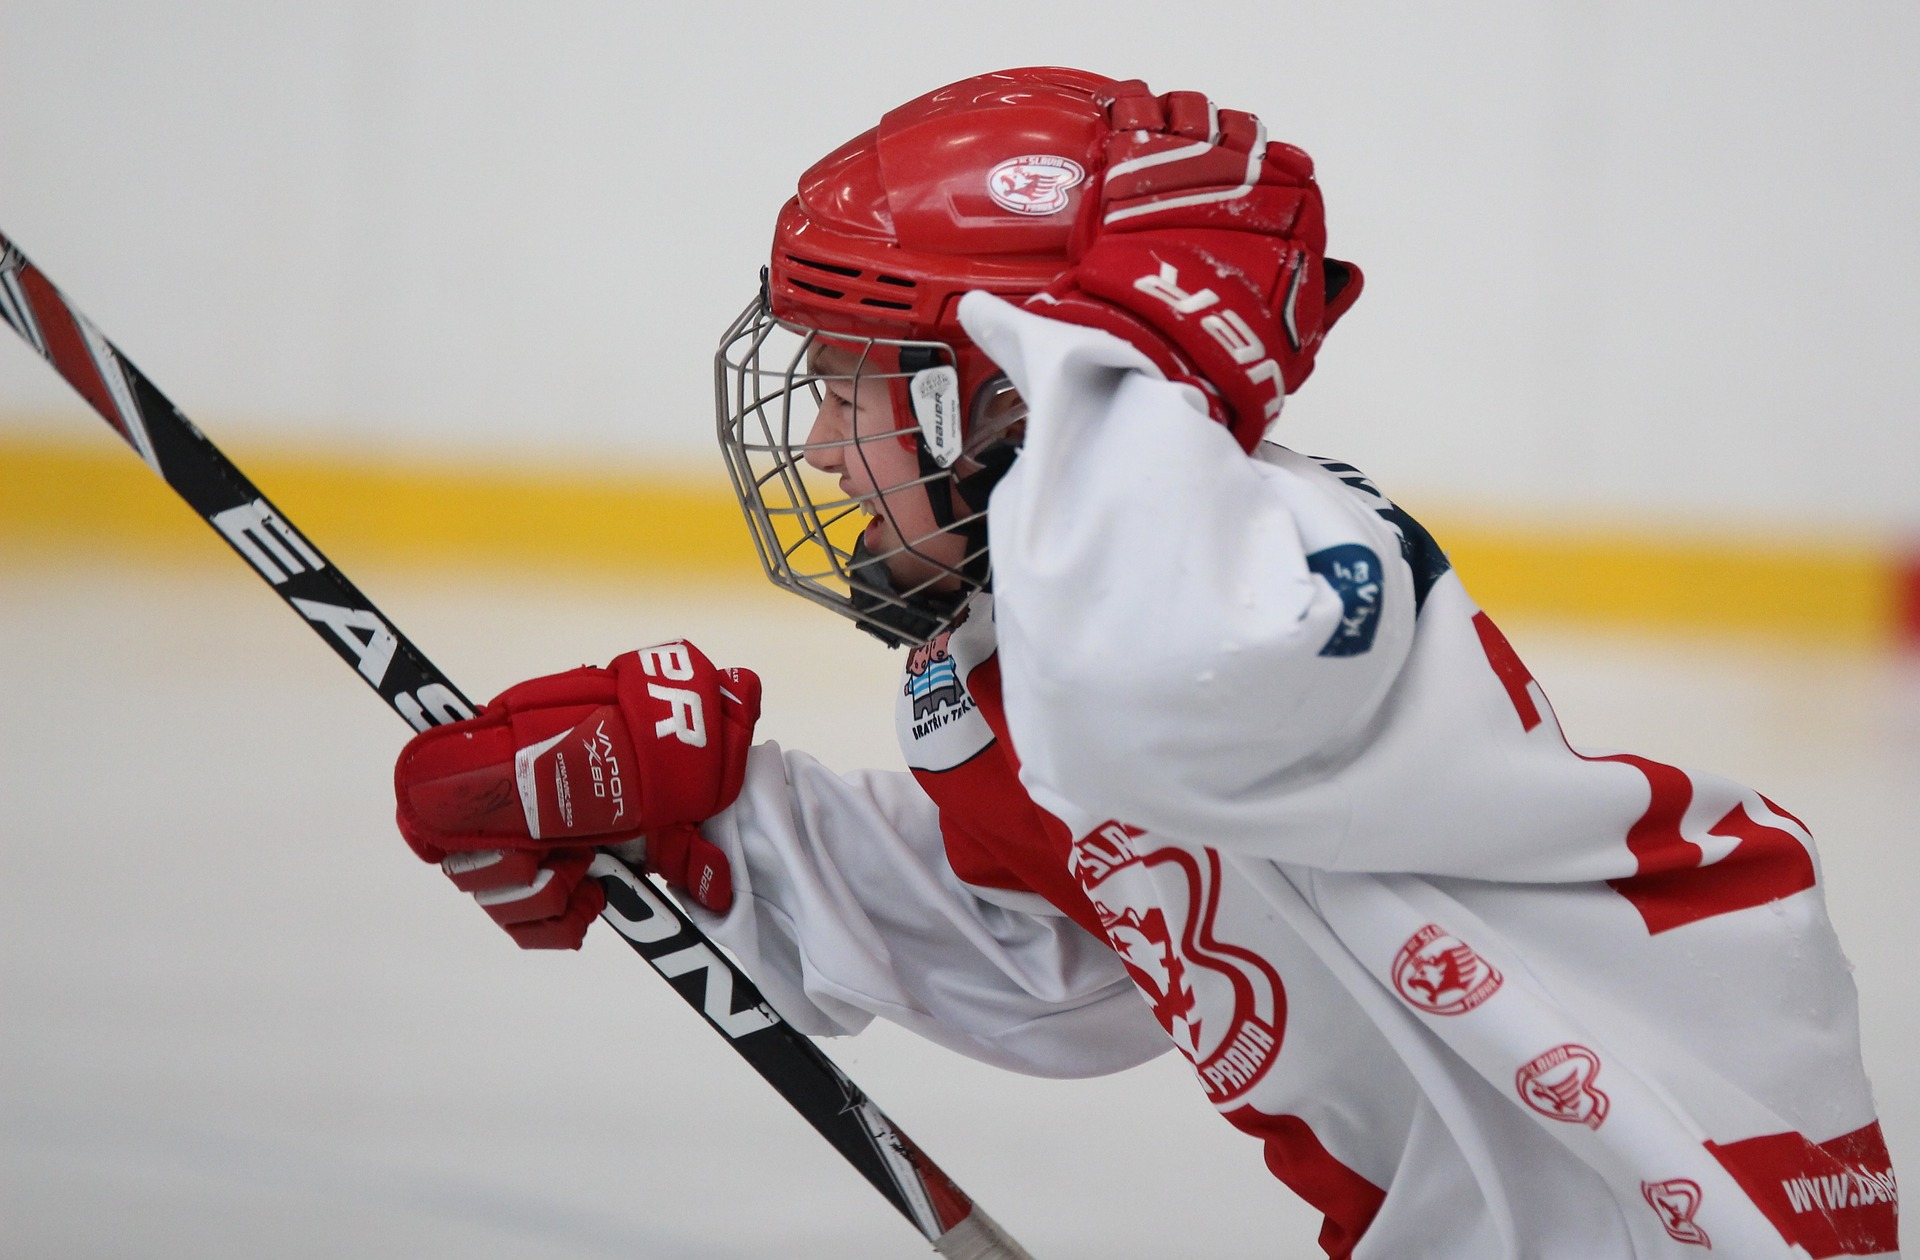
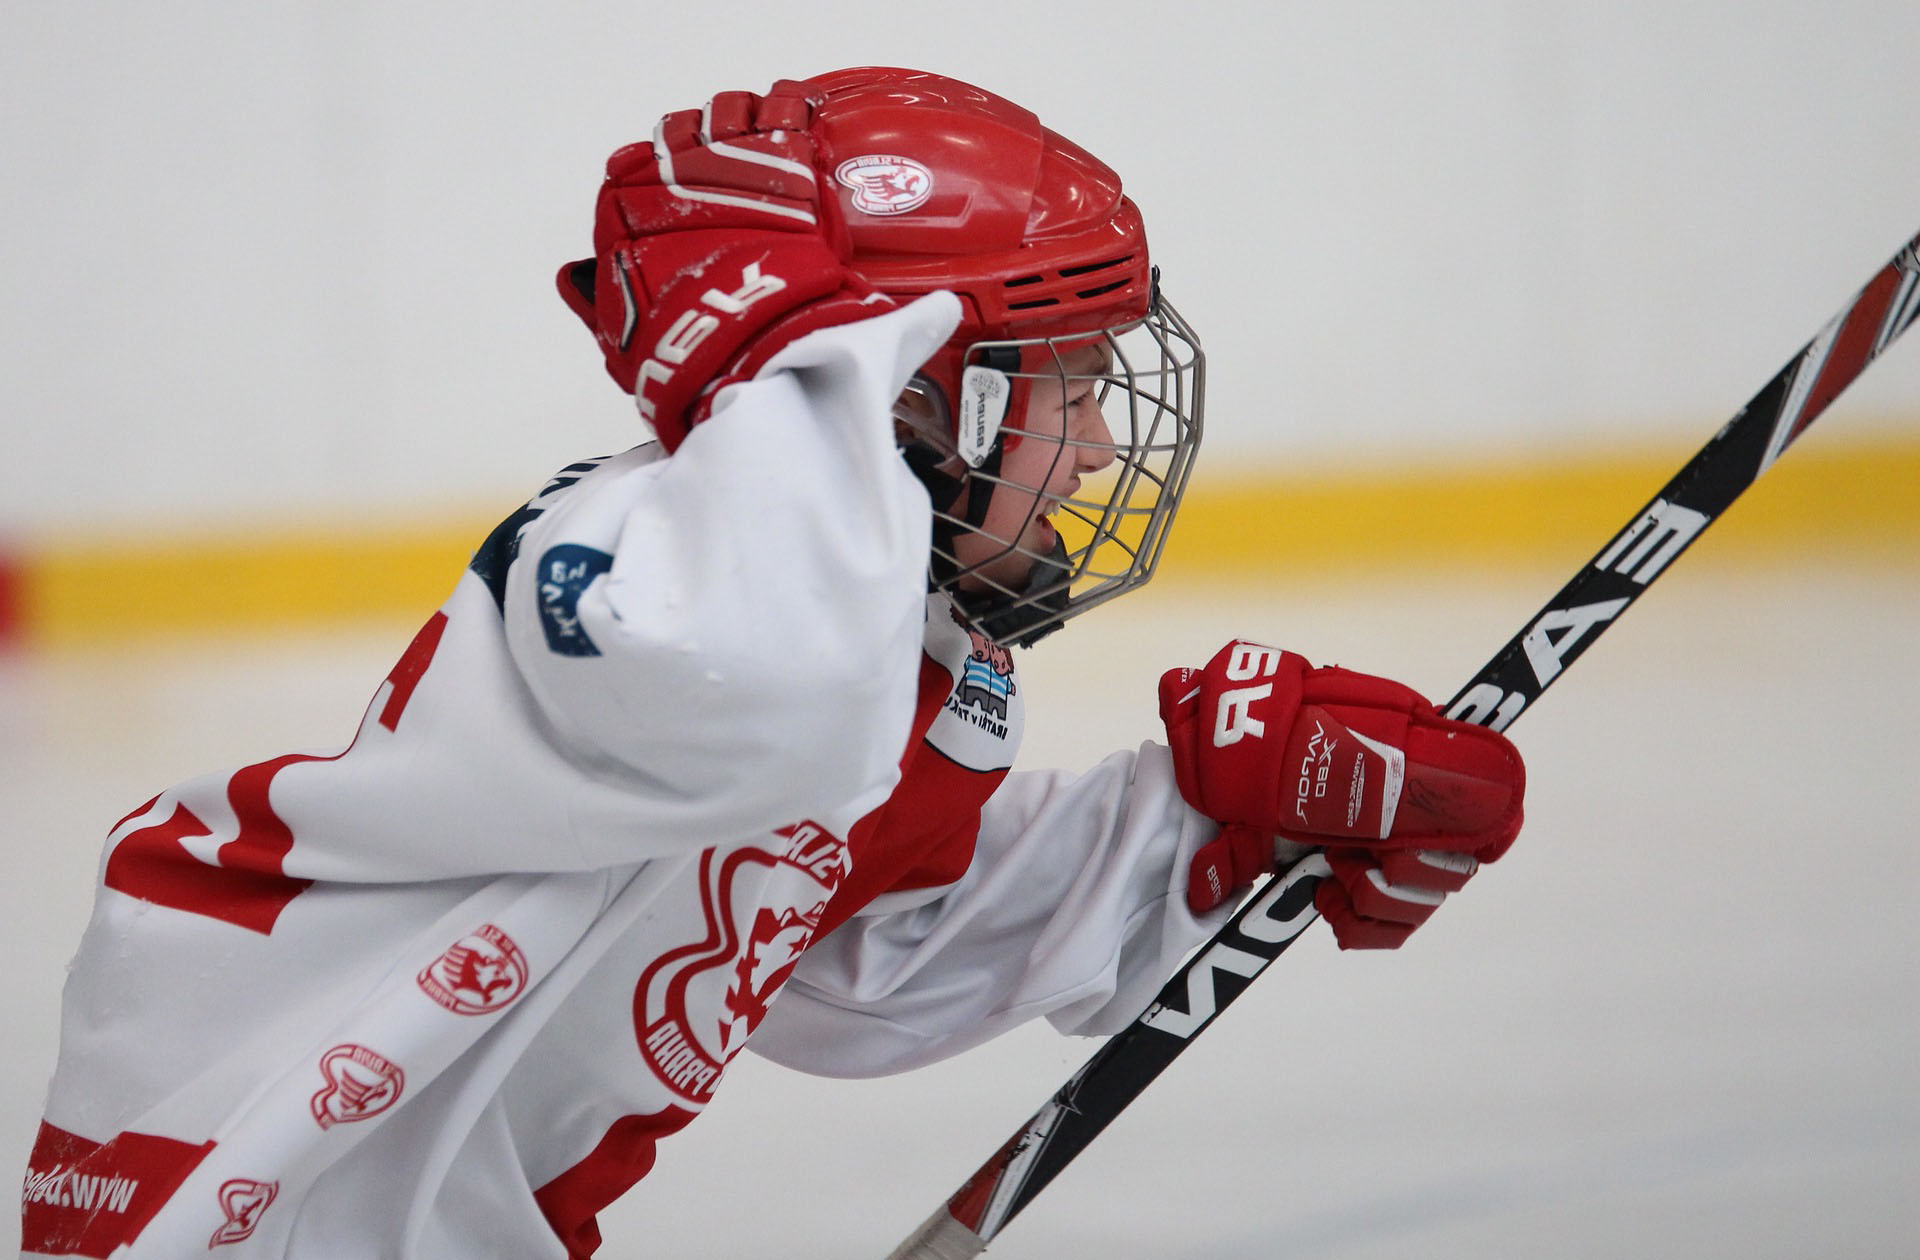
se acomdó el formato

diff --git a/assets/styles/style.css b/assets/styles/style.css
@@ -5,24 +5,40 @@
     font-family: 'Segoe UI', Tahoma, Geneva, Verdana, sans-serif
 }
 
+body {
+    background-color: rgb(223, 223, 223);
+}
+
 header {
     display: flex;
-    align-items: center;
+    align-items: end;
     background-image: url(/assets/img/fondo.jpg);
     width: 100%;
+    height: 150px;
+    background-position: center;
     background-repeat: no-repeat;
     background-size: cover;
 }
 
 #logo {
-    width: 15vw;
+    position: relative;
+    top: 4rem;
+    height: 15vw;
     margin: 1rem;
+    max-height: 150px;
+    min-height: 130px;
 }
 
-H1 {
-    font-size: 3.7vb;
-    color: rgb(160, 196, 238);
+h1 {
+    font-size: 5vb;
+    color: rgb(255, 255, 255);
     padding: 1rem;
+    text-shadow: 4px 4px 0 rgb(0, 0, 0);
+}
+
+h1>span {
+    color: rgb(97, 231, 180);
+    font-size: 3.2vb;
 }
 
 nav {
@@ -36,7 +52,7 @@ nav>a {
     color: aliceblue;
     font-size: 1.3vb;
     font-weight: bolder;
-    background-color: rgb(25, 95, 187);
+    background-color: rgb(9, 40, 80);
     width: 8rem;
     height: 1.7rem;
     align-items: center;
@@ -44,8 +60,9 @@ nav>a {
     justify-content: center;
 }
 
-a:hover {
-    background-color: rgb(9, 40, 80);
+nav>a:hover {
+    background-color: rgb(25, 95, 187);
+    transition: ease-out .4s;
 }
 
 a:active {
@@ -56,16 +73,29 @@ a[href="#"] {
     background-color: darkgreen;
 }
 
-section>h2 {
-    color: white;
-    text-align: center;
-    background-color: rgb(9, 40, 80);
-    height: 40px;
-    font-style: italic;
+section {
+    display: flex;
+    background: no-repeat;
+    background-image: url(/assets/img/design2_image1.jpg);
+    height: 350px;
+    background-position: center;
+    background-size: cover;
+    align-items: flex-end;
+    justify-content: right;
+
 }
 
-#banner {
-    width: 100%;
+section>h2 {
+    position: relative;
+    bottom: 20px;
+    color: white;
+    background-color: rgb(9, 40, 80);
+    opacity: 0.7;
+    height: 35px;
+    font-size: 3vh;
+    font-style: italic;
+    width: 45%;
+    padding: 0.2vh;
 }
 
 h3 {
@@ -74,10 +104,26 @@ h3 {
 
 #foto {
     width: 100%;
+    border-radius: 10px;
+    box-shadow: 4px 4px 4px 2px rgba(0, 0, 0, 0.2);
+    /*max-height: 350px;
+    min-height: 130px;*/
 }
 
 article {
     padding-bottom: 1rem;
+    background-color: white;
+    border-radius: 10px;
+    padding: 2rem;
+    margin-bottom: 10px;
+    /*border: 1px solid black;*/
+    box-shadow: 4px 4px 4px 2px rgba(0, 0, 0, 0.2);
+}
+
+article>img {
+    width: 40px;
+    align-items: baseline;
+    margin-bottom: 1rem;
 }
 
 main {
@@ -87,14 +133,13 @@ main {
 
 .colum1 {
     width: 25%;
-    margin-left: 10px;
-    margin-top: 10px;
+    margin: 10px 5px 10px 10px;
+    border-radius: 10px;
 }
 
 .colum2 {
     width: 70%;
-    margin-right: 10px;
-    margin-top: 10px;
+    margin: 10px 10px 10px 5px;
 }
 
 li {

diff --git a/about_MDHL.html b/about_MDHL.html
@@ -14,7 +14,7 @@
     <header>
         <img id="logo" src="./assets/img/logo.png" alt="Logo Mighty ducks" title="Logo Mighty ducks">
 
-        <h1>Mighty Ducks Hockey League</h1>
+        <h1>M<span>ighty </span>D<span>ucks </span>H<span>ockey </span> L<span>eague</span></h1>
     </header>
 
     <nav>
@@ -26,8 +26,6 @@
     </nav>
 
     <section>
-        <img id="banner" src="./assets/img/design2_image1.jpg" alt="">
-
         <h2>About MDHL</h2>
     </section>
 
@@ -47,16 +45,12 @@
                     soccer, with opportunities to learn and practice skills related to the game of hockey, specifically
                     those skills
                     around team cooperation and good sportsmanship</p>
-            </article>
 
-            <article>
                 <h3>Vision</h3>
                 <p>The Mighty Ducks Hockey League aspires to develop strong, well-rounded and mindful athletes through
                     the
                     building of character, self-discipline, and leadership.</p>
-            </article>
 
-            <article>
                 <h3>General Information</h3>
 
                 <p>The Mighty Ducks Soccer League was established in 1996 to provide athletes residing Chicago's

diff --git a/index.html b/index.html
@@ -14,8 +14,8 @@
     <header>
         <img id="logo" src="./assets/img/logo.png" alt="Logo Mighty ducks" title="Logo Mighty ducks">
 
-        <h1>Mighty Ducks Hockey League</h1>
-    </header>
+        <h1>M<span>ighty </span>D<span>ucks </span>H<span>ockey </span> L<span>eague</span></h1>
+    </header><span></span>
 
     <nav>
         <a href="#">Home</a>
@@ -26,8 +26,6 @@
     </nav>
 
     <section>
-        <img id="banner" src="./assets/img/design2_image1.jpg" alt="">
-
         <h2>Upcoming Events</h2>
     </section>
 
@@ -40,17 +38,13 @@
 
         <div class="colum2">
             <article>
-                <h3 class="h3">August 4</h3>
+                <h3>August 4</h3>
                 <p>MDSL Fundraiser</p>
-            </article>
 
-            <article>
-                <h3 class="h3">August 16</h3>
+                <h3>August 16</h3>
                 <p>Season Kick-off: Meet the Teams</p>
-            </article>
 
-            <article>
-                <h3 class="h3">September 1</h3>
+                <h3>September 1</h3>
                 <p>First Game of the Season (Check Game Schedule for details)</p>
             </article>
         </div>

diff --git a/contact.html b/contact.html
@@ -14,7 +14,7 @@
     <header>
         <img id="logo" src="./assets/img/logo.png" alt="Logo Mighty ducks" title="Logo Mighty ducks">
 
-        <h1>Mighty Ducks Hockey League</h1>
+        <h1>M<span>ighty </span>D<span>ucks </span>H<span>ockey </span> L<span>eague</span></h1>
     </header>
 
     <nav>
@@ -26,8 +26,6 @@
     </nav>
 
     <section>
-        <img id="banner" src="./assets/img/design2_image1.jpg" alt="">
-
         <h2>Contact</h2>
     </section>
 
@@ -39,11 +37,15 @@
         </div>
 
         <div class="colum2">
-            <p>Please email us at <a href="mailto:mdhl@chihockey.org">mdhl@chihockey.org</a></p>
-            <p>We reply to your email as soon as we can.</p>
+
+            <article>
+                <img src="./assets/img/email.png" alt="">
+                <h3>Please email us at <a href="mailto:mdhl@chihockey.org">mdhl@chihockey.org</a></p>
+                    <p>We reply to your email as soon as we can.</p>
+                </h3>
+            </article>
         </div>
     </main>
-
 </body>
 
 </html>

diff --git a/rules.html b/rules.html
@@ -14,7 +14,7 @@
     <header>
         <img id="logo" src="./assets/img/logo.png" alt="Logo Mighty ducks" title="Logo Mighty ducks">
 
-        <h1>Mighty Ducks Hockey League</h1>
+        <h1>M<span>ighty </span>D<span>ucks </span>H<span>ockey </span> L<span>eague</span></h1>
     </header>
 
     <nav>
@@ -26,15 +26,13 @@
     </nav>
 
     <section>
-        <img id="banner" src="./assets/img/design2_image1.jpg" alt="">
-
         <h2>Rules</h2>
     </section>
 
     <main>
         <div class="colum1">
 
-            <img id="foto" src="./assets/img/fondo.jpg" alt="hockey_1" title="hockey 1">
+            <img id="foto" src="./assets/img/hockey_4.jpg" alt="hockey_1" title="hockey 1">
 
         </div>
 
@@ -105,4 +103,5 @@
         </div>
     </main>
 </body>
+
 </html>

diff --git a/game_info.html b/game_info.html
@@ -13,7 +13,7 @@
 <body>
     <header>
         <img id="logo" src="./assets/img/logo.png" alt="Logo Mighty ducks" title="Logo Mighty ducks">
-        <h1>Mighty Ducks Hockey League</h1>        
+        <h1>M<span>ighty </span>D<span>ucks </span>H<span>ockey </span>  L<span>eague</span></h1>       
     </header>
 
     <nav>
@@ -25,9 +25,7 @@
     </nav>
 
     <section>        
-        <img id="banner" src="./assets/img/design2_image1.jpg" alt="">
-
-        <h2 class="">Game Information</h2>
+        <h2>Game Information</h2>
     </section>
 
     <main>
